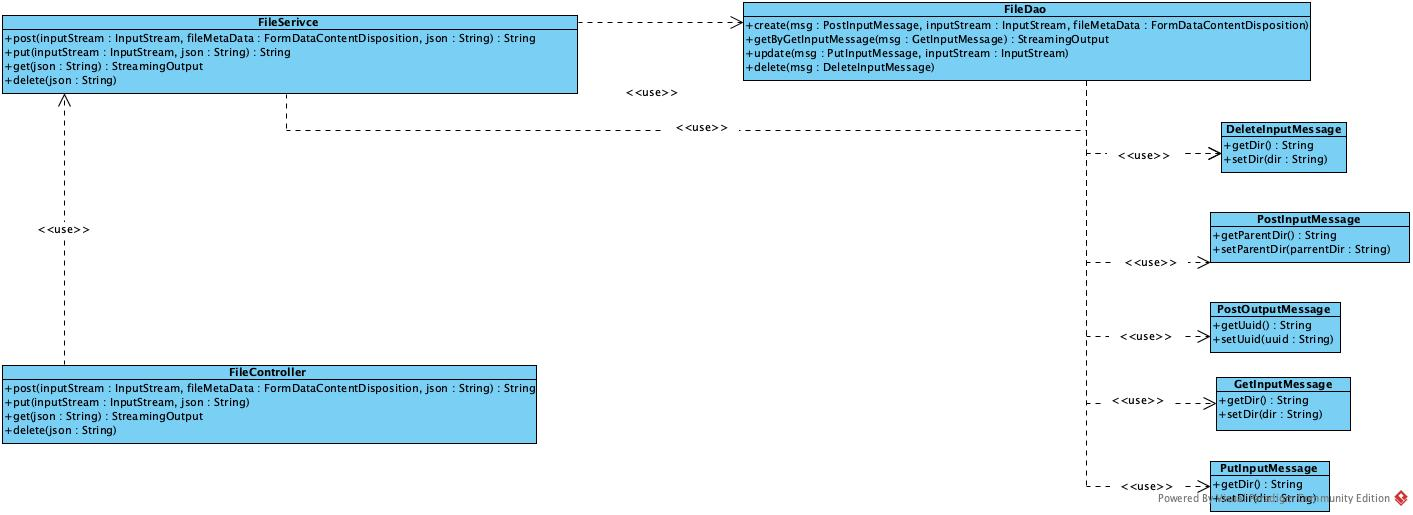
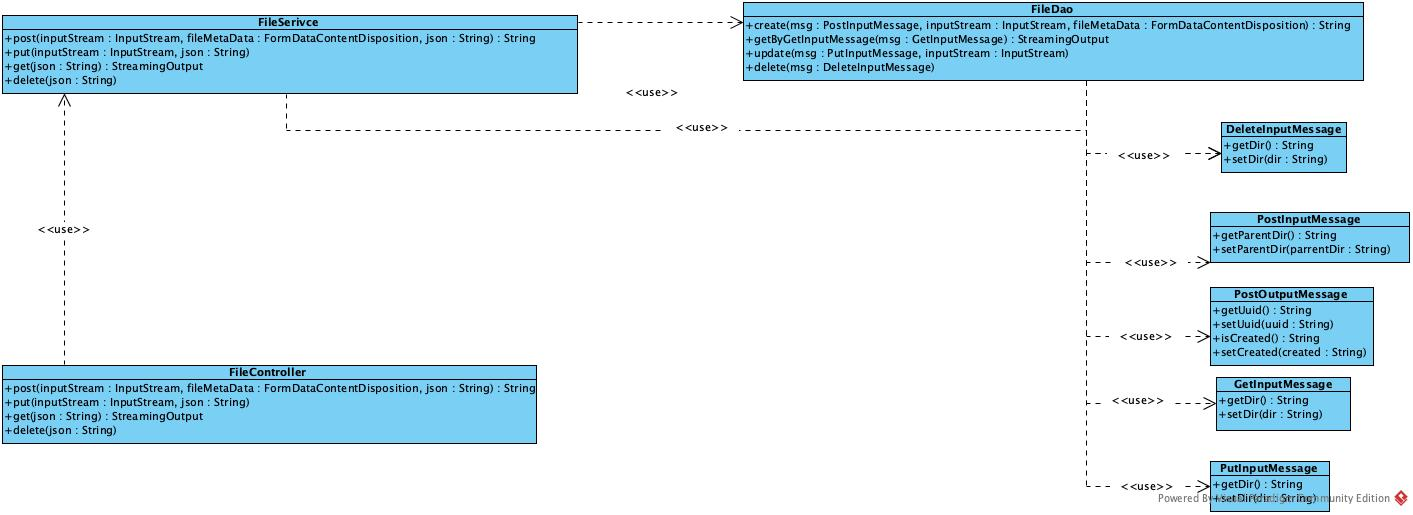
some fixes

diff --git a/src/main/java/eu/pstdio/file_crud_api/business/service/FileService.java b/src/main/java/eu/pstdio/file_crud_api/business/service/FileService.java
@@ -10,7 +10,7 @@ import org.glassfish.jersey.media.multipart.FormDataContentDisposition;
  */
 public interface FileService {
     String post(InputStream inputStream, FormDataContentDisposition fileMetadata, String json);
-    String put(InputStream inputStream, String json);
+    void put(InputStream inputStream, String json);
     StreamingOutput get(String json);
     void delete(String json);
 }

diff --git a/src/main/java/eu/pstdio/file_crud_api/business/message/PostOutputMessage.java b/src/main/java/eu/pstdio/file_crud_api/business/message/PostOutputMessage.java
@@ -7,4 +7,6 @@ package eu.pstdio.file_crud_api.business.message;
 public interface PostOutputMessage {
     String getUuid();
     void setUuid(String uuid);
+    String isCreated();
+    void setCreated(String created);
 }
